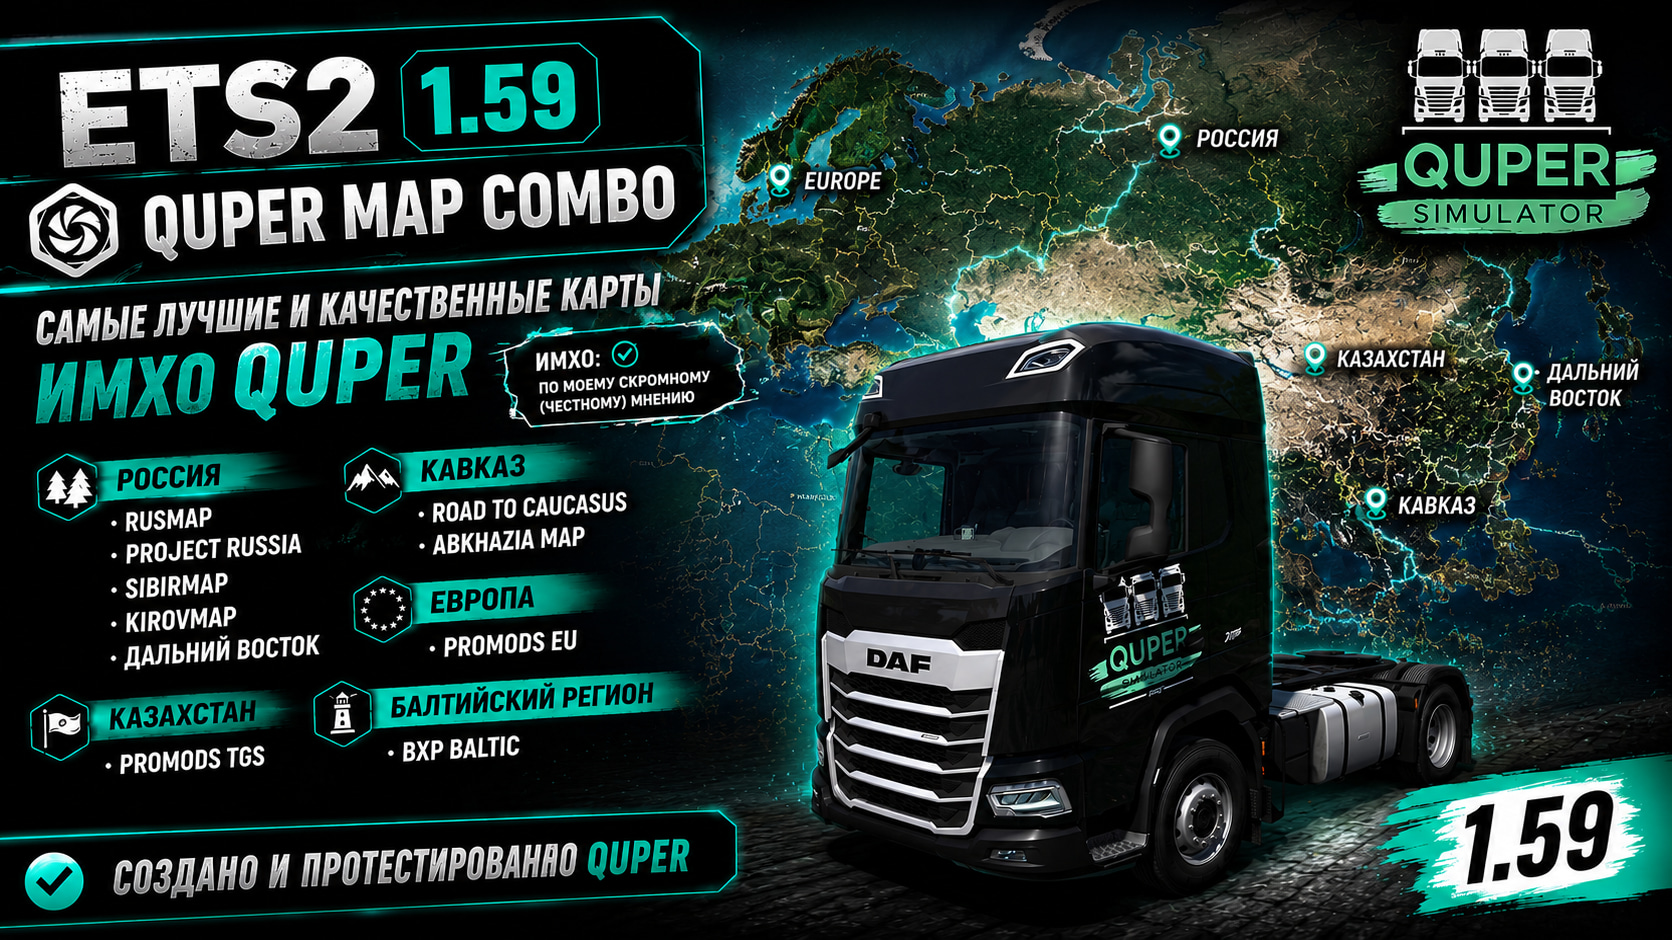
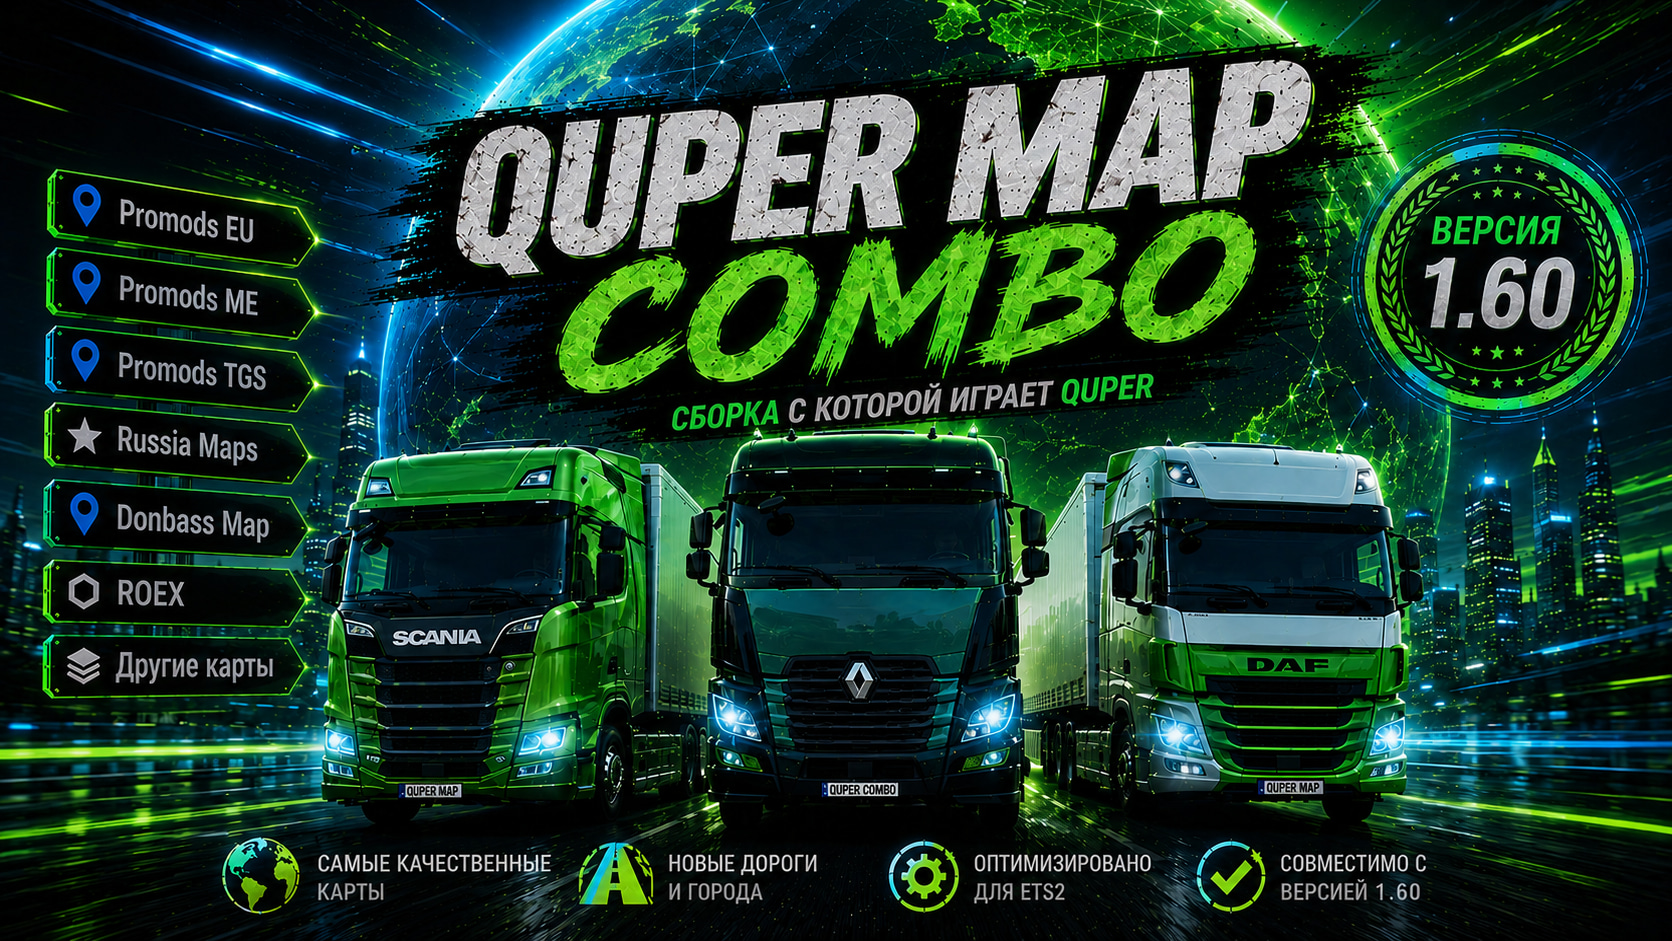
add Quper

diff --git a/src/data/combos/v1.60.js b/src/data/combos/v1.60.js
@@ -1,4 +1,20 @@
 export const combos_v1_60 = [
+   {
+    id: "quper-map-160",
+    tags: ["ets2"],
+    title: "QUPER MAP COMBO",
+    preview: "img/combos/160/ets2-quper/quper-preview.jpg",
+    version_game: "1.60",
+    version: "1.0",
+    date: "24.06.26",
+    video: "92UCJI97qRg",
+    image_top: "img/combos/160/ets2-quper/quper-top.jpg",
+    image_bottom: "img/combos/160/ets2-quper/quper-bottom.jpg",
+    table:
+      "",
+    profile:
+      "https://sharemods.com/1sa3i04nbfbn/1.60_ETS2_QUPER_MAP_COMBO_1.0.zip.html",
+  },
   {
     id: "mega-map-160",
     tags: ["ets2"],
